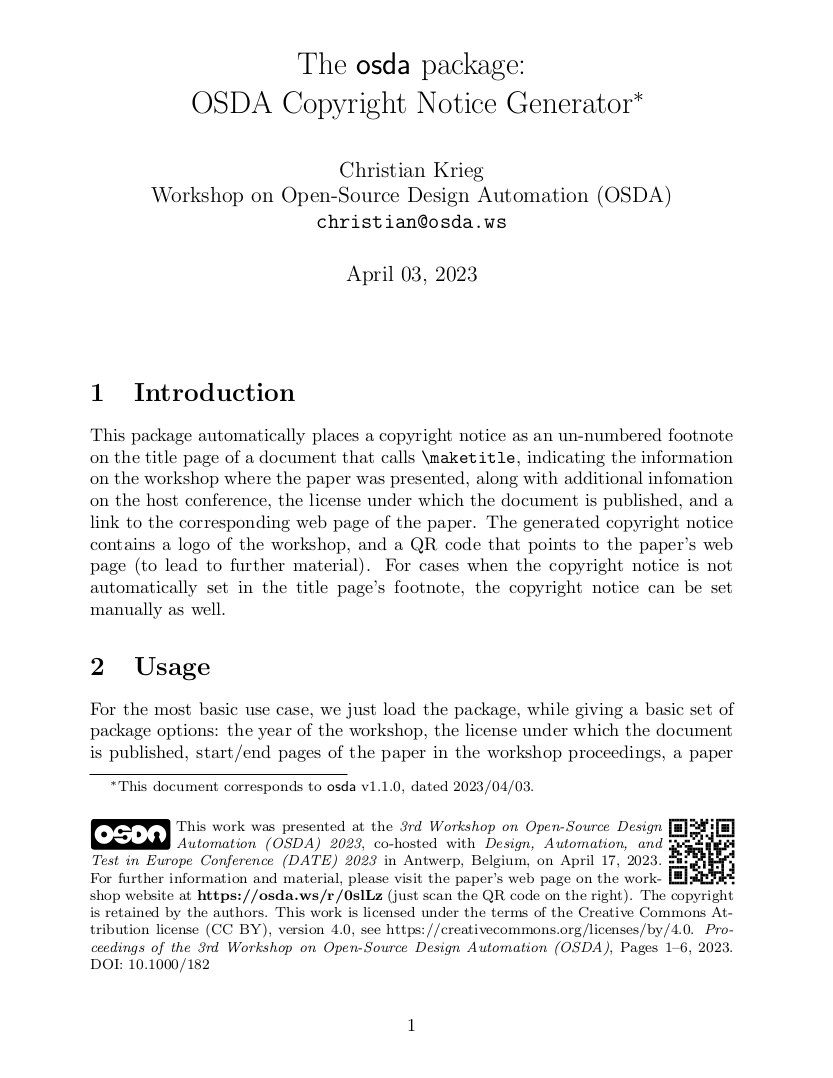
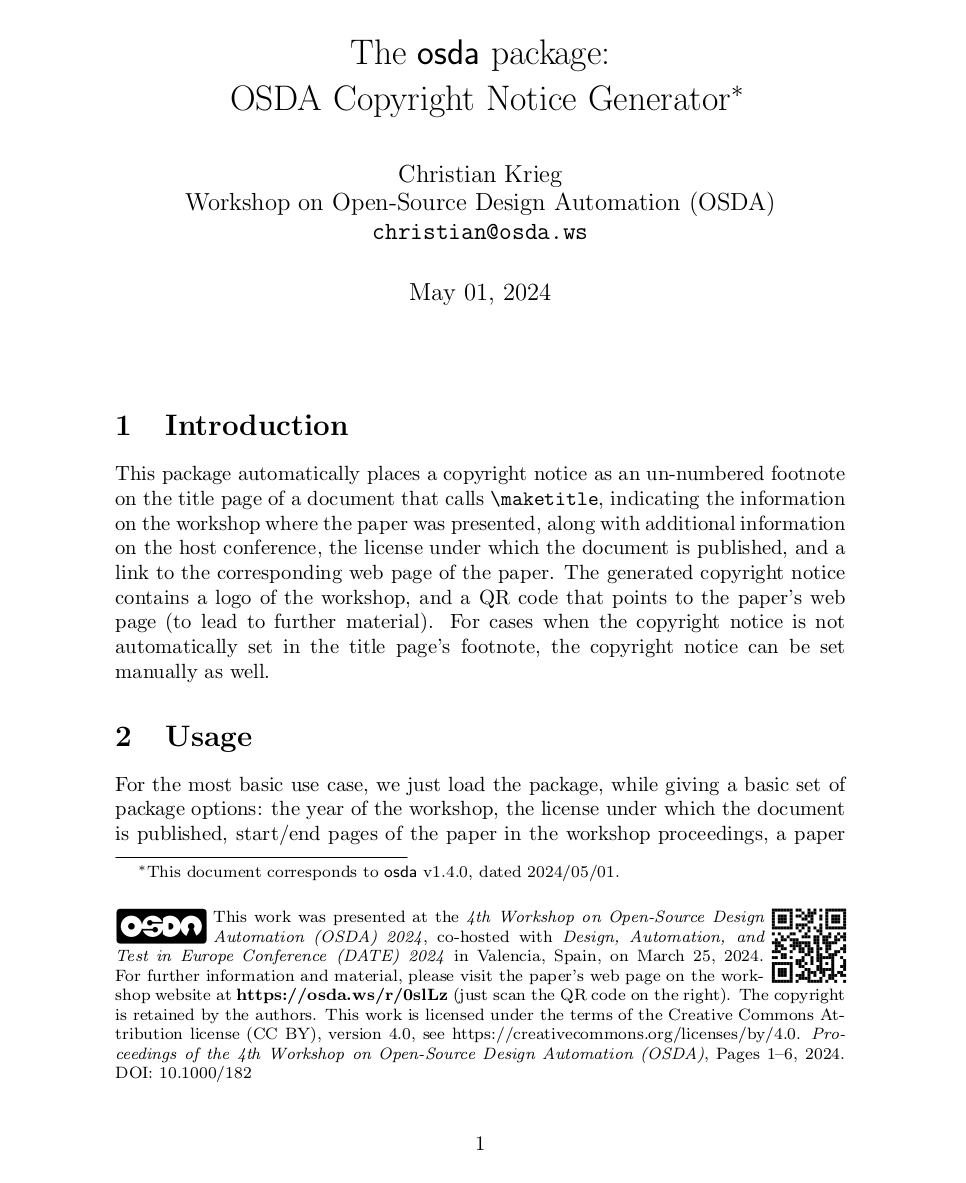
Updated package to 2024
* Added a preset '2024' with information on this year's workshop
* Updated documentation to use this preset
* Updated example image with footnote of 2024
* Bumped version to 1.4.0

diff --git a/README.md b/README.md
@@ -28,7 +28,7 @@ above.
 
 ```
 \usepackage[
-    2023,
+    2024,
     cc-by,
     pages={1}{6},
     url=https://osda.ws/r/aaVHo,
@@ -59,7 +59,7 @@ pdflatex osda.dtx
 
 ## License information
 
-Copyright 2023 by Christian Krieg (christian@osda.ws)
+Copyright 2023-2024 by Christian Krieg (christian@osda.ws)
 
 This work (excluding the OSDA logo) may be distributed and/or modified under the
 conditions of the LaTeX Project Public License, either version 1.3 of this
